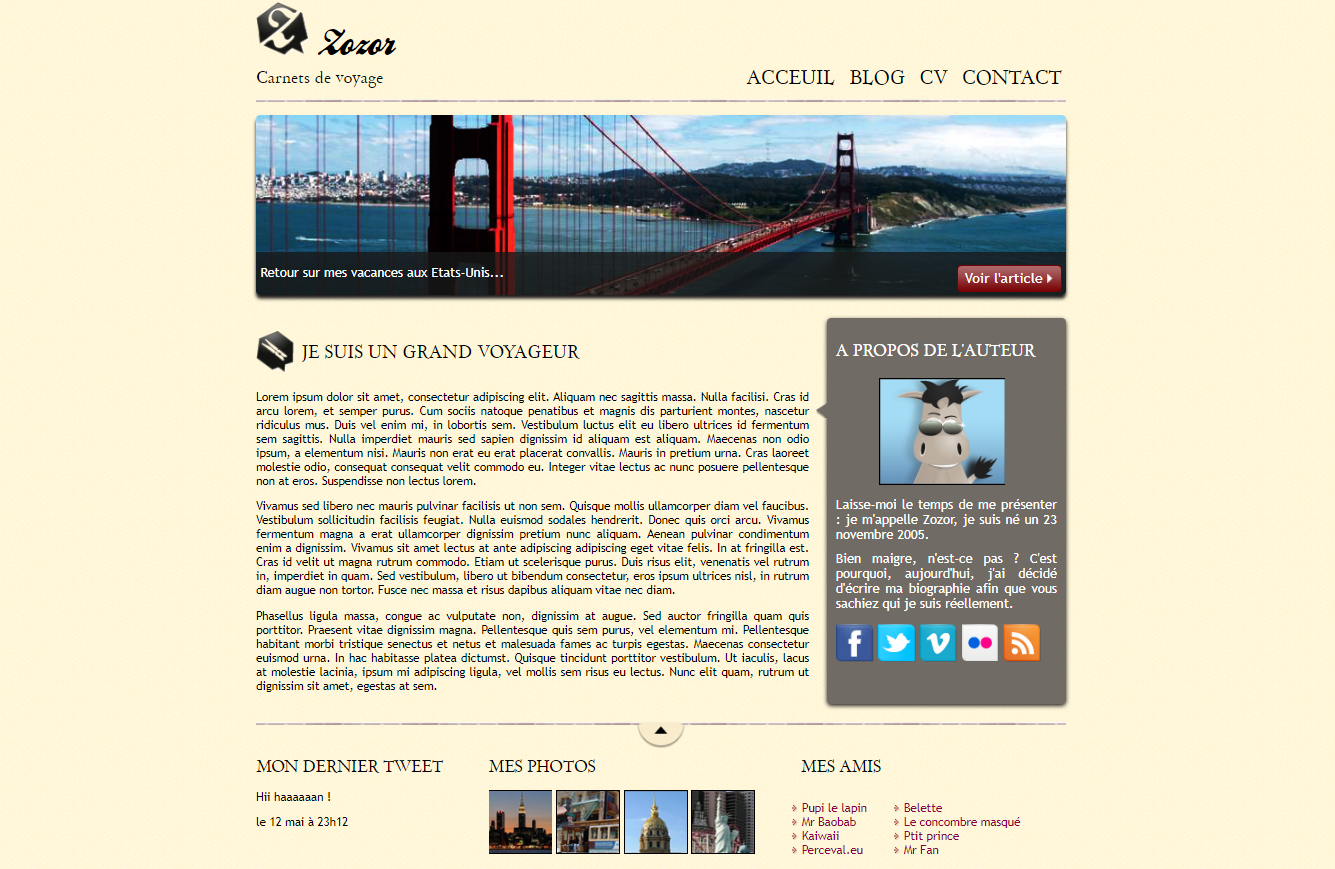
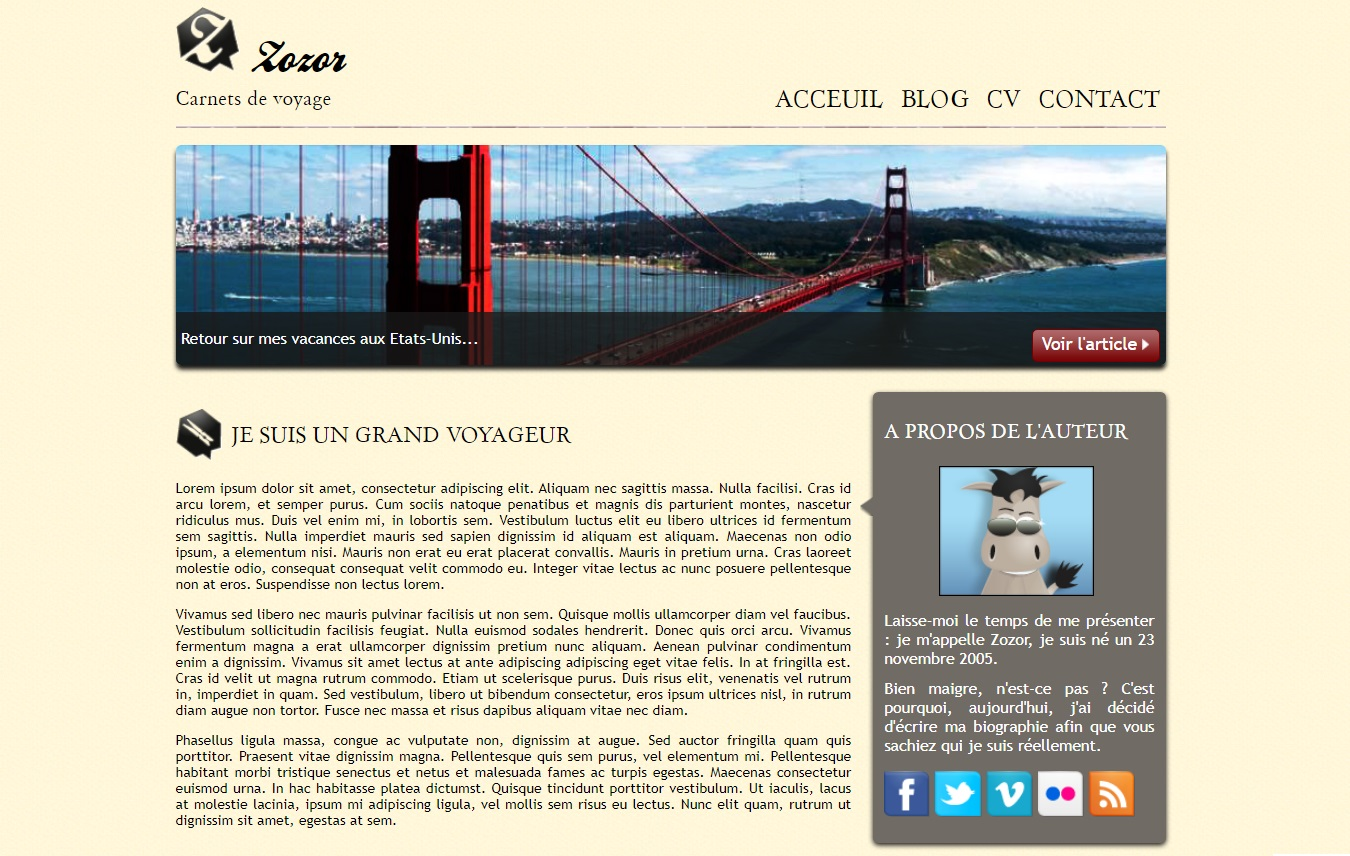
Responsive + Modal done

diff --git a/index.html b/index.html
@@ -53,6 +53,56 @@
     ></script>
   </head>
   <body data-spy="scroll" data-target="#navbar-target" data-offset="200">
+    <!-- Modal -->
+    <div
+      class="modal fade"
+      id="exampleModalCenter"
+      tabindex="-1"
+      role="dialog"
+      aria-labelledby="exampleModalCenterTitle"
+      aria-hidden="true"
+    >
+      <div
+        class="modal-dialog modal-lg modal-dialog-centered modal-dialog-scrollable"
+        role="document"
+      >
+        <div class="modal-content shadow">
+          <div class="modal-header">
+            <h4 class="modal-title" id="exampleModalCenterTitle"></h4>
+            <button
+              type="button"
+              class="close"
+              data-dismiss="modal"
+              aria-label="Close"
+            >
+              <span aria-hidden="true">&times;</span>
+            </button>
+          </div>
+          <div class="modal-body">
+            <img
+              src="#"
+              id="modal-image"
+              class="modal-image"
+              alt="modal image"
+            />
+          </div>
+          <div class="modal-footer">
+            <p id="modal-tech-list" class="modal-tech-list mr-auto"></p>
+            <p id="modal-description" class="modal-description mr-auto"></p>
+            <a
+              href="#"
+              target="blank"
+              id="modal-button"
+              class="btn btn-outline-dark modal-button ml-auto"
+            >
+              <i class="fab fa-github"> </i>
+              <p class="button-text">Github</p>
+            </a>
+          </div>
+        </div>
+      </div>
+    </div>
+
     <!-- Nav Bar -->
     <nav
       id="navbar-target"
@@ -199,38 +249,49 @@
       <div class="container-fluid">
         <h2 class="section-title">Projets</h2>
         <div class="row all-project-container">
-          <div
-            class="project-container project1 shadow border col-xl-4 col-lg-6"
-          >
+          <div class="project-container project1 shadow border">
             <div class="project-img"></div>
             <div class="project-description">
               <h4 class="project-title">Le blog de Zozor</h4>
               <p class="project-tech-list">HTML - CSS</p>
-              <button class="btn btn-outline-dark project-button">
+              <button
+                id="tindog-button"
+                class="btn btn-outline-dark project-button"
+                data-toggle="modal"
+                data-target="#exampleModalCenter"
+                onclick="zozorFunction()"
+              >
                 En savoir plus
               </button>
             </div>
           </div>
-          <div
-            class="project-container project2 shadow border col-xl-4 col-lg-6"
-          >
+          <div class="project-container project2 shadow border">
             <div class="project-img"></div>
             <div class="project-description">
               <h4 class="project-title">Tindog</h4>
               <p class="project-tech-list">HTML - CSS - Bootstrap</p>
-              <button class="btn btn-outline-dark project-button">
+              <button
+                class="btn btn-outline-dark project-button"
+                data-toggle="modal"
+                data-target="#exampleModalCenter"
+                onclick="tindogFunction()"
+              >
                 En savoir plus
               </button>
             </div>
           </div>
-          <div
-            class="project-container project3 shadow border col-xl-4 col-lg-6"
-          >
+          <div class="project-container project3 shadow border">
             <div class="project-img"></div>
             <div class="project-description">
               <h4 class="project-title">Roll a ball 3D</h4>
               <p class="project-tech-list">C# - Unity</p>
-              <button class="btn btn-outline-dark project-button">
+              <button
+                id="roll-button"
+                class="btn btn-outline-dark project-button"
+                data-toggle="modal"
+                data-target="#exampleModalCenter"
+                onclick="rollFunction()"
+              >
                 En savoir plus
               </button>
             </div>

diff --git a/css/style.css b/css/style.css
@@ -38,10 +38,54 @@ footer {
   letter-spacing: 1px;
 }
 
+/* Modal */
+
+.modal-dialog-centered.modal-dialog-scrollable {
+  height: unset !important;
+}
+
+.modal-content {
+  max-height: 600px !important;
+}
+
+.modal-body {
+  padding: unset;
+  max-height: 35% !important;
+}
+
+.modal-image {
+  max-width: 100%;
+}
+
+.modal-footer {
+  height: 20%;
+  flex-direction: column;
+  text-align: left !important;
+  font-weight: bold;
+}
+
+.modal-tech-list {
+  color: #007bff;
+}
+
+.modal-description {
+  max-width: 80%;
+  color: gray;
+}
+
+.modal-button {
+  border: solid 2px #343a40 !important;
+  font-weight: bold;
+}
+
 /* Nav Bar */
 
 #navbar-target {
   padding: 8px 20%;
+}
+
+.navbar-toggler {
+  border: none;
 }
 
 .navbar-brand {
@@ -62,12 +106,13 @@ footer {
 /* Home */
 
 .big-tittle {
-  font-size: 3rem;
+  font-size: 2.8rem;
   padding-bottom: 5%;
 }
 
 .picture {
-  width: 350px;
+  width: 100%;
+  max-width: 350px;
   border: solid 2px #343a40;
 }
 
@@ -106,10 +151,13 @@ footer {
 }
 
 /* Projects */
+.row {
+  justify-content: space-between !important;
+}
 
 .project-container {
   position: relative;
-  min-width: 350px !important;
+  min-width: 325px !important;
   width: 33.33333%;
   padding: 22.2222% 0 0;
 }
@@ -162,7 +210,7 @@ footer {
 }
 
 .project-title {
-  font-size: 2rem;
+  font-size: 1.8rem;
 }
 
 .project-tech-list {
@@ -201,4 +249,121 @@ footer {
 
 .copyright {
   margin: 15px 0 0;
+}
+
+/*--------------- Responsive ---------------*/
+
+/* Media query for the project section */
+
+@media (max-width: 1650px) {
+  /* Sections */
+
+  section,
+  footer {
+    padding: 5% 15%;
+  }
+
+  /* Nav */
+
+  #navbar-target {
+    padding: 8px 15%;
+  }
+
+  /* Projects */
+
+  .all-project-container {
+    width: 650px !important;
+    margin: 0 auto;
+  }
+
+  .project-container {
+    width: 50%;
+    padding: 33.33333% 0 0;
+  }
+}
+
+/* Large devices (desktops, less than 1200px) */
+@media (max-width: 1199.98px) {
+  /* Modal */
+
+  .modal-dialog {
+    max-width: none !important;
+    margin: 0 15%;
+  }
+
+  .modal-content {
+    max-height: 600px !important;
+  }
+
+  /* Home */
+
+  .picture {
+    max-width: 325px;
+  }
+
+  .self-description-button {
+    width: auto;
+    max-width: 130px;
+  }
+}
+
+/* Medium devices (tablets, less than 992px)*/
+@media (max-width: 991.98px) {
+  /* Sections */
+
+  section,
+  footer {
+    padding: 5% 10%;
+  }
+
+  /* Modal */
+
+  .modal-dialog {
+    max-width: none !important;
+    margin: 0 10%;
+  }
+
+  .modal-content {
+    max-height: 900px !important;
+  }
+
+  /* Nav */
+
+  #navbar-target {
+    padding: 8px 10%;
+  }
+
+  /* Home */
+
+  .picture {
+    margin-bottom: 5%;
+  }
+
+  .self-description {
+    text-align: center;
+  }
+
+  .self-description-button {
+    width: 130px;
+  }
+
+  /* Skills */
+
+  .skill-title {
+    text-align: center;
+  }
+}
+
+/* Small devices (landscape phones, less than 768px) */
+@media (max-width: 767.98px) {
+  /* Projects */
+
+  .all-project-container {
+    width: 350px !important;
+  }
+
+  .project-container {
+    padding: 66.6666% 0 0 !important;
+    margin: 0 auto;
+  }
 }

diff --git a/js/main.js b/js/main.js
@@ -1,0 +1,35 @@
+let modalImage = document.getElementById("modal-image");
+let modalButton = document.getElementById("modal-button");
+
+function zozorFunction() {
+  document.getElementById("exampleModalCenterTitle").innerHTML =
+    "Le Blog de Zozor";
+  document.getElementById("modal-image").src = "images/zozor-modal.png";
+  document.getElementById("modal-tech-list").innerHTML = "HTML - CSS";
+  document.getElementById("modal-description").innerHTML =
+    "Page d'un blog fictif, ce projet est aussi mon premier projet front-end.";
+  document.getElementById("modal-button").href =
+    "https://github.com/TheoBernard97/Zozor";
+}
+
+function tindogFunction() {
+  document.getElementById("exampleModalCenterTitle").innerHTML = "Tindog";
+  document.getElementById("modal-image").src = "images/tindog-modal.png";
+  document.getElementById("modal-tech-list").innerHTML =
+    "HTML - CSS - Bootstrap";
+  document.getElementById("modal-description").innerHTML =
+    "Page de présentation fictive de l'application Tindog, ce projet est mon plus récent. C'est le premier réalisé avec Bootstrap et completement responsive.";
+  document.getElementById("modal-button").href =
+    "https://github.com/TheoBernard97/Tindog";
+}
+
+function rollFunction() {
+  document.getElementById("exampleModalCenterTitle").innerHTML =
+    "Roll a ball 3D";
+  document.getElementById("modal-image").src = "images/roll-modal.png";
+  document.getElementById("modal-tech-list").innerHTML = "C# - Unity";
+  document.getElementById("modal-description").innerHTML =
+    "Jeu de plateforme 3D, ce projet de 2015 est mon tout premier. C'est à cette occasion que j'ai découvert les bases de la programmation.";
+  document.getElementById("modal-button").href =
+    "https://github.com/TheoBernard97/Roll-a-ball";
+}
